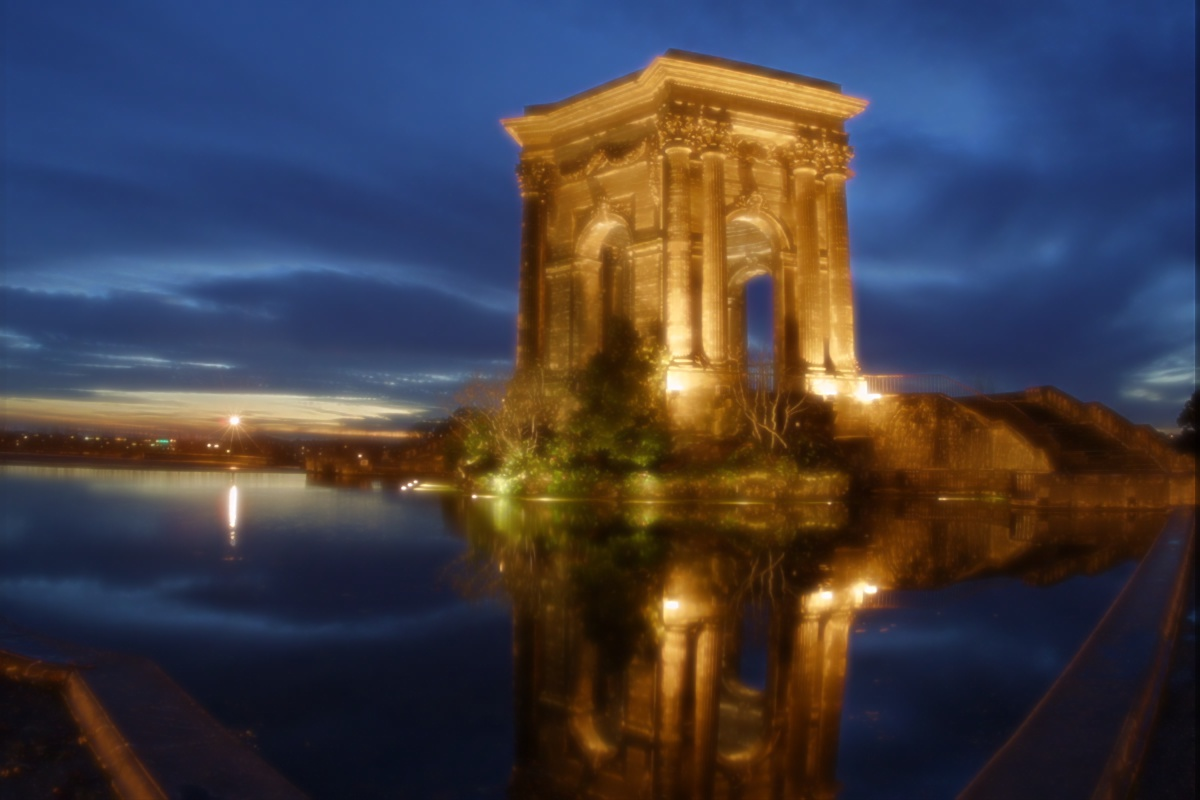
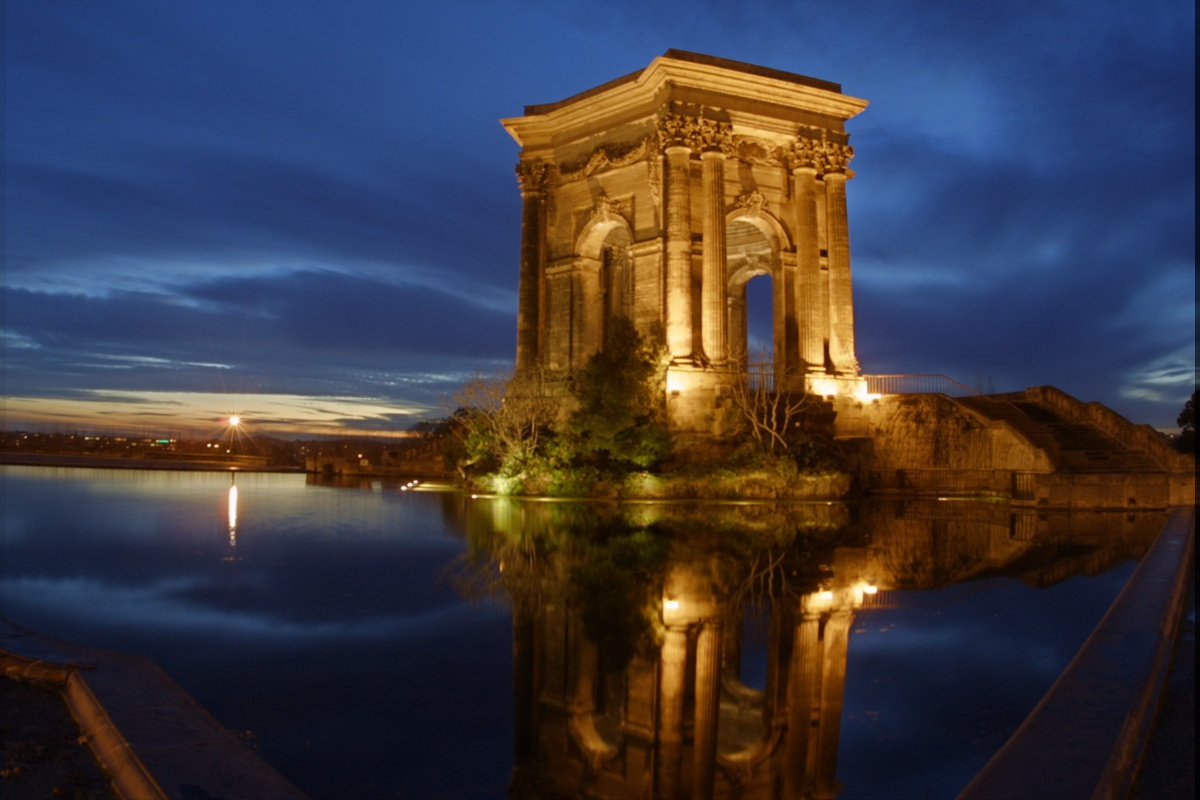
Add type hints using NDArray typing; minor cleanup (np.arange, unused variable cleanup)

diff --git a/exposure_fusion/core.py b/exposure_fusion/core.py
@@ -1,98 +1,111 @@
+from typing import List, Optional
+
 import cv2
 import numpy as np
+from numpy.typing import NDArray
 
 
-def compute_weights(images, time_decay):
-    (w_c, w_s, w_e) = (1, 1, 1)
+def compute_weights(
+    images: List[NDArray[np.uint8]],
+    time_decay: Optional[float],
+) -> List[NDArray[np.float32]]:
+    w_c, w_s, w_e = 1, 1, 1
 
     if time_decay is not None:
         tau = len(images)
-        time_sigma2 = (tau**2)/(np.float32(time_decay)**2)
-        t = np.array(range(tau-1, -1, -1))
-        decay = np.exp(-((t)**2)/(2*time_sigma2))
+        time_sigma2 = (tau**2) / (np.float32(time_decay) ** 2)
+        t = np.arange(tau - 1, -1, -1)
+        decay = np.exp(-((t) ** 2) / (2 * time_sigma2))
 
-    weights = []
+    weights: List[NDArray[np.float32]] = []
     weights_sum = np.zeros(images[0].shape[:2], dtype=np.float32)
     for image_uint in images:
-        image = np.float32(image_uint)/255
+        image = np.float32(image_uint) / 255
         W = np.ones(image.shape[:2], dtype=np.float32)
 
-        # contrast
         image_gray = cv2.cvtColor(image, cv2.COLOR_BGR2GRAY)
         laplacian = cv2.Laplacian(image_gray, cv2.CV_32F)
         W_contrast = np.absolute(laplacian) ** w_c + 1
         W *= W_contrast
 
-        # saturation
         W_saturation = image.std(axis=2, dtype=np.float32) ** w_s + 1
         W *= W_saturation
 
-        # well-exposedness (paper: sigma=0.2)
-        ws = 0.04  # sigma^2 = 0.2^2
-        W_exposedness = np.prod(np.exp(-((image - 0.5)**2)/(2*ws)), axis=2, dtype=np.float32) ** w_e + 1
+        ws = 0.04
+        W_exposedness = (
+            np.prod(
+                np.exp(-((image - 0.5) ** 2) / (2 * ws)),
+                axis=2,
+                dtype=np.float32,
+            )
+            ** w_e
+            + 1
+        )
         W *= W_exposedness
 
         if time_decay is not None:
             W *= decay[len(weights)]
 
         weights_sum += W
-
         weights.append(W)
 
-    # normalization
     nonzero = weights_sum > 0
-    for i in range(len(weights)):
-        weights[i][nonzero] /= weights_sum[nonzero]
+    for w in weights:
+        w[nonzero] /= weights_sum[nonzero]
 
     return weights
 
 
-def gaussian_kernel(size=5, sigma=0.4):
+def gaussian_kernel(size: int = 5, sigma: float = 0.4) -> NDArray[np.float32]:
     return cv2.getGaussianKernel(ksize=size, sigma=sigma)
 
 
-def image_reduce(image):
+def image_reduce(image: NDArray) -> NDArray:
     kernel = gaussian_kernel()
-    out_image = cv2.sepFilter2D(image, -1, kernel, kernel.T)
-    out_image = cv2.resize(out_image, None, fx=0.5, fy=0.5)
-    return out_image
+    out = cv2.sepFilter2D(image, -1, kernel, kernel.T)
+    return cv2.resize(out, None, fx=0.5, fy=0.5)
 
 
-def image_expand(image):
+def image_expand(image: NDArray) -> NDArray:
     kernel = gaussian_kernel()
-    out_image = cv2.resize(image, None, fx=2, fy=2)
-    out_image = cv2.sepFilter2D(out_image, -1, kernel, kernel.T)
-    return out_image
+    out = cv2.resize(image, None, fx=2, fy=2)
+    return cv2.sepFilter2D(out, -1, kernel, kernel.T)
 
 
-def gaussian_pyramid(img, depth):
+def gaussian_pyramid(img: NDArray, depth: int) -> List[NDArray]:
     G = img.copy()
     gp = [G]
-    for i in range(depth):
+    for _ in range(depth):
         G = image_reduce(G)
         gp.append(G)
     return gp
 
 
-def laplacian_pyramid(img, depth):
-    gp = gaussian_pyramid(img, depth+1)
-    lp = [gp[depth-1].astype(np.float32)]
-    for i in range(depth-1, 0, -1):
+def laplacian_pyramid(img: NDArray, depth: int) -> List[NDArray[np.float32]]:
+    gp = gaussian_pyramid(img, depth + 1)
+    lp: List[NDArray[np.float32]] = [gp[depth - 1].astype(np.float32)]
+    for i in range(depth - 1, 0, -1):
         GE = image_expand(gp[i]).astype(np.float32)
-        L = gp[i-1].astype(np.float32) - GE
+        L = gp[i - 1].astype(np.float32) - GE
         lp = [L] + lp
     return lp
 
 
-def pyramid_collapse(pyramid):
+def pyramid_collapse(pyramid: List[NDArray]) -> NDArray[np.uint8]:
     depth = len(pyramid)
-    collapsed = pyramid[depth-1].astype(np.float32)
-    for i in range(depth-2, -1, -1):
-        collapsed = image_expand(collapsed).astype(np.float32) + pyramid[i].astype(np.float32)
+    collapsed = pyramid[depth - 1].astype(np.float32)
+    for i in range(depth - 2, -1, -1):
+        collapsed = (
+            image_expand(collapsed).astype(np.float32) + pyramid[i].astype(np.float32)
+        )
     return np.clip(np.round(collapsed), 0, 255).astype(np.uint8)
 
 
-def exposure_fusion(images, depth=3, time_decay=None):
+def exposure_fusion(
+    images: List[NDArray[np.uint8]],
+    depth: int = 3,
+    time_decay: Optional[float] = None,
+) -> NDArray[np.uint8]:
 
     if not isinstance(images, list) or len(images) < 2:
         raise ValueError("Input has to be a list of at least two images")
@@ -105,26 +118,20 @@ def exposure_fusion(images, depth=3, time_decay=None):
         if img.shape != size:
             raise ValueError("Input images have to be of the same size")
 
-    # compute weights
     weights = compute_weights(images, time_decay)
 
-    # compute pyramids
     lps = []
     gps = []
-    for (image, weight) in zip(images, weights):
+    for image, weight in zip(images, weights):
         lps.append(laplacian_pyramid(image, depth))
         gps.append(gaussian_pyramid(weight, depth))
 
-    # combine pyramids with weights
     LS = []
     for l in range(depth):
         ls = np.zeros(lps[0][l].shape, dtype=np.float32)
         for k in range(len(images)):
-            lp = lps[k][l]
             gp_3ch = np.dstack((gps[k][l], gps[k][l], gps[k][l]))
-            ls += lp * gp_3ch
+            ls += lps[k][l] * gp_3ch
         LS.append(ls)
 
-    # collapse pyramid
-    fusion = pyramid_collapse(LS)
-    return fusion
+    return pyramid_collapse(LS)

diff --git a/exposure_fusion/alignment.py b/exposure_fusion/alignment.py
@@ -1,8 +1,11 @@
+from typing import List
+
 import cv2
 import numpy as np
+from numpy.typing import NDArray
 
 
-def align_images(images):
+def align_images(images: List[NDArray[np.uint8]]) -> List[NDArray[np.uint8]]:
 
     if not isinstance(images, list) or len(images) < 2:
         raise ValueError("Input has to be a list of at least two images")
@@ -19,15 +22,22 @@ def align_images(images):
     warp_matrix = np.eye(2, 3, dtype=np.float32)
     criteria = (cv2.TERM_CRITERIA_EPS | cv2.TERM_CRITERIA_COUNT, 5000, 1e-10)
 
-    aligned_images = [images[0]]
+    aligned_images: List[NDArray[np.uint8]] = [images[0]]
     for i in range(1, len(images)):
-        (cc, warp_matrix) = cv2.findTransformECC(
-            model_image, gray_images[i], warp_matrix, cv2.MOTION_TRANSLATION,
-            criteria, inputMask=None, gaussFiltSize=3
+        cc, warp_matrix = cv2.findTransformECC(
+            model_image,
+            gray_images[i],
+            warp_matrix,
+            cv2.MOTION_TRANSLATION,
+            criteria,
+            inputMask=None,
+            gaussFiltSize=3,
         )
         aligned_image = cv2.warpAffine(
-            images[i], warp_matrix, (sz[1], sz[0]),
-            flags=cv2.INTER_LINEAR + cv2.WARP_INVERSE_MAP
+            images[i],
+            warp_matrix,
+            (sz[1], sz[0]),
+            flags=cv2.INTER_LINEAR + cv2.WARP_INVERSE_MAP,
         )
         aligned_images.append(aligned_image)
 
